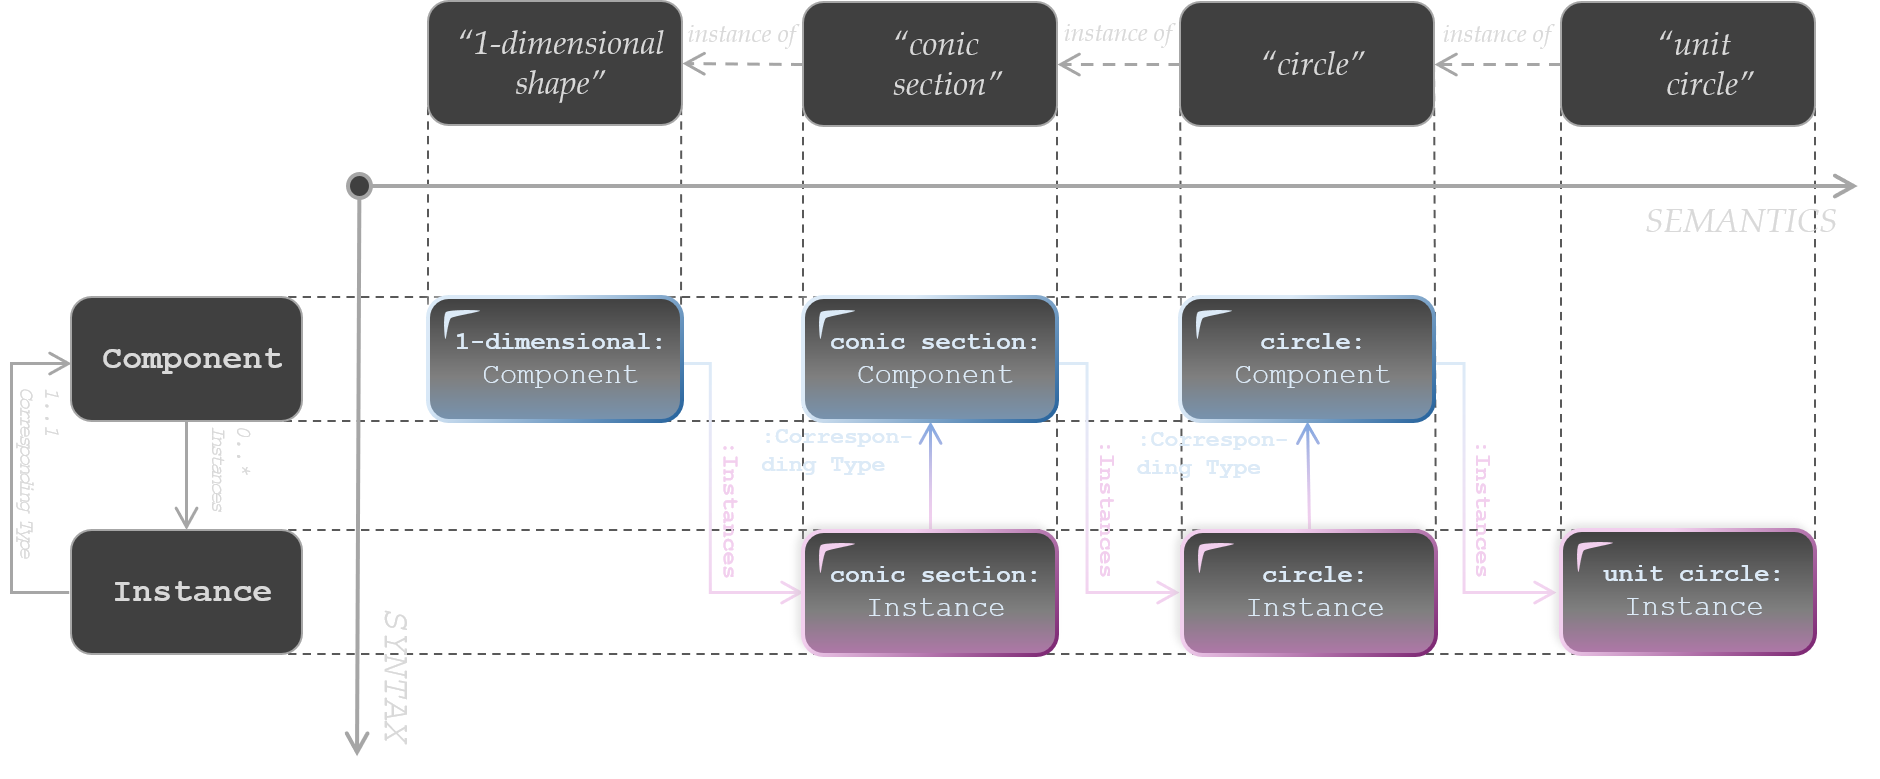
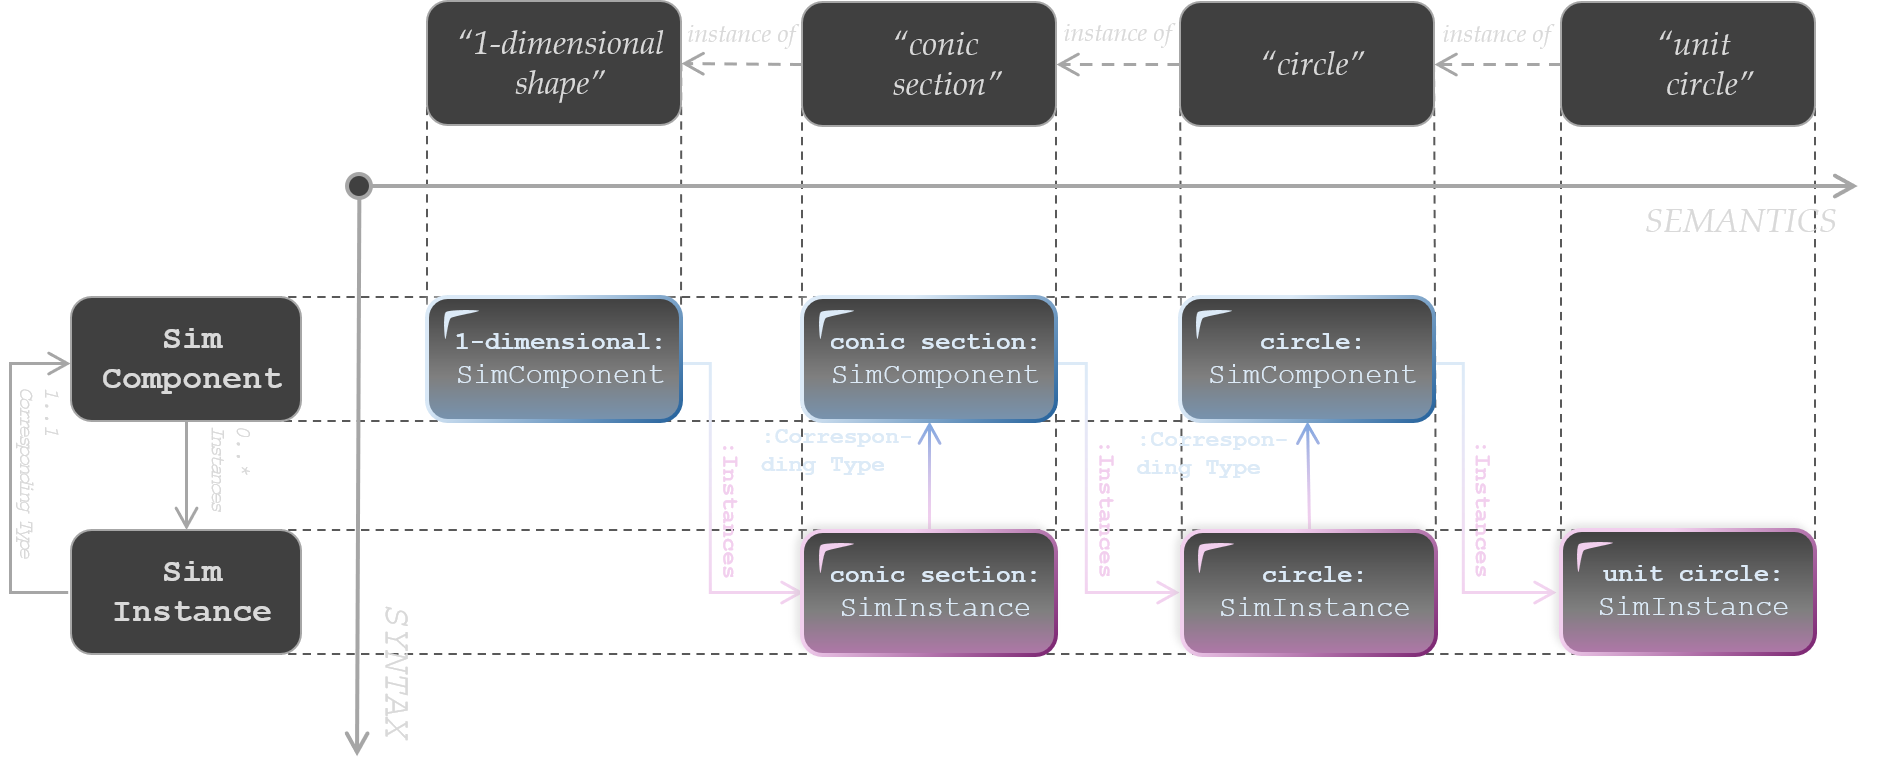
video and image description SIMULTAN

diff --git a/README.md b/README.md
@@ -24,10 +24,22 @@ This project was developed over the course of 11 years by an interdisciplinary t
 
 It was initially funded by the [Austrian Research Promotion Agency (FFG)](https://www.ffg.at/en); later it was further developed in close cooperation with multiple partners from the Architecture, Engineering and Construction (AEC) industry.
 
-[![Simultan Concept Video](assets/images/Simultan_Concept_Video.png)](https://www.youtube.com/embed/UpgmfMcSJz4)
-
 SIMULTAN is a meta-model. It offers a few generic building blocks for the construction of domain-specific models, e.g., for the model of a building, for the simulation model of a physical phenomenon, or for an electrical grid. A SIMULTAN model element behaves similarly to a [clabject](https://link.springer.com/article/10.1007/s10270-006-0017-9), i.e., an amalgamation of a class and an object.
 
+Those generic building blocks cover three different aspects of modelling: *structure*, *semantics* and *representation*. For the structure there are components, parameters and calculations; for semantics there are taxonomies with nested taxonomy entries; for the representation there are shapes: vertices, edges, faces and volumes.
+
+[Video 1.1](#video_1_1) outlines the road from the modelling requirements of the Architecture, Engineering and Construction (AEC) industry to the concept behind SIMULTAN. [Video 1.2](#video_1_2) shows the implementation of the concept and demonstrates the interplay of structure, semantics and representation in a digital model from the AEC domain of building physics.
+
+
+[![Simultan Concept Video](assets/images/Simultan_Concept_Video.png)](https://www.youtube.com/embed/UpgmfMcSJz4)
+*Video 1.1. The idea behind SIMULTAN.*
+<a name="video_1_1"></a>
+
+[![Simultan Implementation Video: coming soon](assets/images/Simultan_Impl_Video.png)]()
+*Video 1.2. The idea behind SIMULTAN.*
+<a name="video_1_2"></a>
+
+[Figure 1.1](#figure_1_1) demonstrates the power of SIMULTAN to model deep semantic hierarchies. In essence, the relationships between component and instance provides a syntax that can express multiple semantic levels. (*A video going into more detail will be coming soon.*)
 
 
 <picture>
